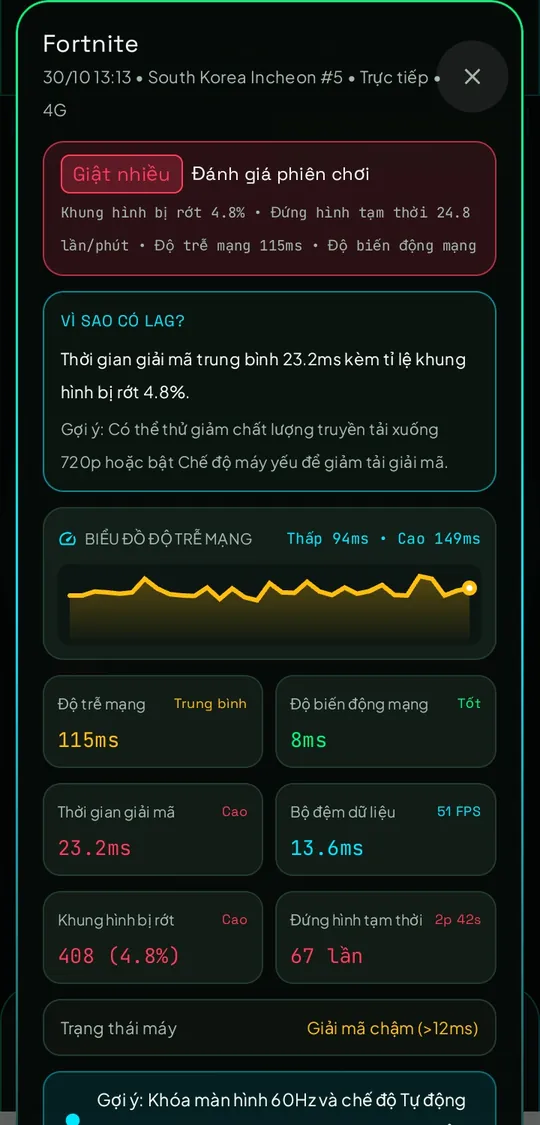
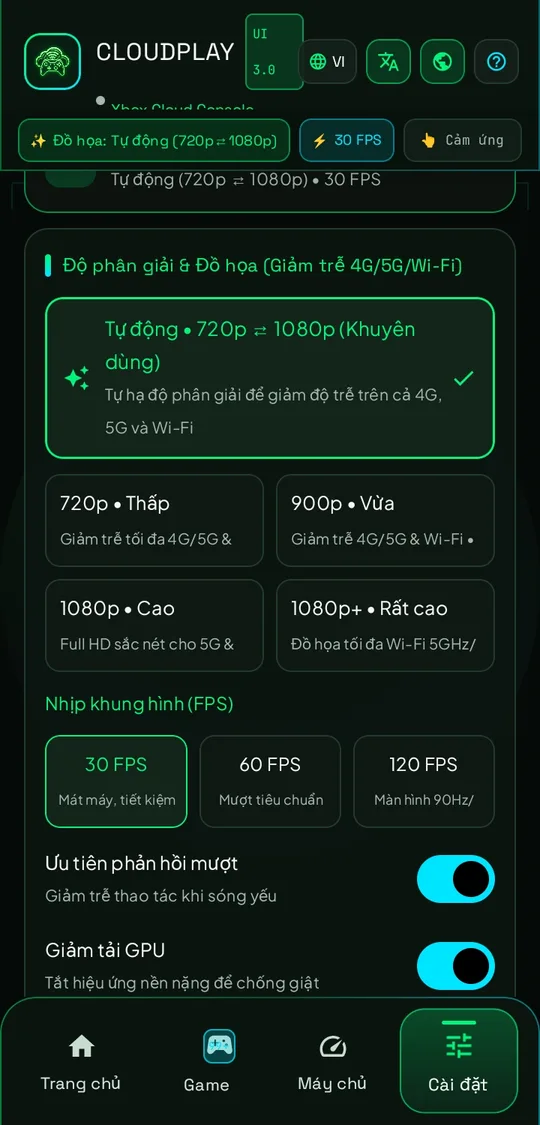
docs: update screenshot label to "Cài đặt đồ họa"
Rename the third screenshot label from "Chi tiết phiên chơi" to "Cài đặt đồ họa" in both the app and documentation to accurately reflect the content of the image.

diff --git a/app/src/main/assets/web/index.html b/app/src/main/assets/web/index.html
@@ -169,7 +169,7 @@
     <div class="shots" id="shots">
       <figure class="shot"><img src="img/screenshot-1.webp" alt="" width="540" height="1125" loading="lazy" onerror="shotErr(this)"><figcaption data-i="c1">Trang chủ</figcaption></figure>
       <figure class="shot"><img src="img/screenshot-2.webp" alt="" width="540" height="1125" loading="lazy" onerror="shotErr(this)"><figcaption data-i="c2">Thư viện game</figcaption></figure>
-      <figure class="shot"><img src="img/screenshot-3.webp" alt="" width="540" height="1125" loading="lazy" onerror="shotErr(this)"><figcaption data-i="c3">Chi tiết phiên chơi</figcaption></figure>
+      <figure class="shot"><img src="img/screenshot-3.webp" alt="" width="540" height="1125" loading="lazy" onerror="shotErr(this)"><figcaption data-i="c3">Cài đặt đồ họa</figcaption></figure>
     </div>
     <div class="dots" id="dots"><i class="on"></i><i></i><i></i></div>
   </section>
@@ -254,7 +254,7 @@
       hint:"Mạng chậm? Dùng máy chủ phụ (bên thứ ba). Nếu dùng, hãy đối chiếu mã SHA-256 bên dưới trước khi cài.",
       hashna:"Chưa lấy được mã kiểm tra",copy:"Sao chép",copied:"Đã chép",
       f1:"Phiên bản",f2:"Dung lượng",free:"Miễn phí",f4:"Giá",
-      h_shots:"Ảnh chụp",c1:"Trang chủ",c2:"Thư viện game",c3:"Chi tiết phiên chơi",
+      h_shots:"Ảnh chụp",c1:"Trang chủ",c2:"Thư viện game",c3:"Cài đặt đồ họa",
       h_feat:"Tính năng",
       t1:"Số đo thật khi chơi",d1:"Độ trễ mạng, độ biến động, FPS và thời gian giải mã hiện ngay trên màn hình. Chưa có số đo thì hiện “—”, không điền số giả.",
       t2:"Vì sao có lag?",d2:"Sau mỗi phiên, app dùng số liệu đã lưu để gợi ý nguyên nhân (mạng, giải mã hay mất khung hình) và cách thử khắc phục.",
@@ -271,14 +271,14 @@
       q5:"Cập nhật như thế nào?",a5:"Ứng dụng báo khi có bản mới và kiểm tra file trước khi cài.",
       n_t:"Lưu ý",n_b:"Ứng dụng độc lập, không liên kết với Microsoft, Xbox hay Epic Games. Có thể vi phạm điều khoản dịch vụ và dẫn đến khóa tài khoản; người dùng tự chịu rủi ro.",
       foot:"CloudPlay cho Android",rel:"Các bản phát hành",src:"Mã nguồn",
-      alts:["Màn hình trang chủ","Thư viện game","Chi tiết phiên chơi và chẩn đoán lag"]},
+      alts:["Màn hình trang chủ","Thư viện game","Cài đặt đồ họa và FPS"]},
     en:{by:"App for Android",
       tagline:"A helper for playing Xbox Cloud Gaming on Android: shows real measurements while you play, adjusts image quality and suggests the cause of lag.",
       dl:"Download APK",fast:"Download via mirror",
       hint:"Slow network? Use the mirror (third party). If you do, compare the SHA-256 below before installing.",
       hashna:"Checksum not available",copy:"Copy",copied:"Copied",
       f1:"Version",f2:"Size",free:"Free",f4:"Price",
-      h_shots:"Screenshots",c1:"Home",c2:"Game library",c3:"Session details",
+      h_shots:"Screenshots",c1:"Home",c2:"Game library",c3:"Graphics settings",
       h_feat:"Features",
       t1:"Real measurements while you play",d1:"Network latency, jitter, FPS and decode time are shown on screen. When there is no measurement yet it shows “—”, never a made-up number.",
       t2:"Why is it lagging?",d2:"After each session the app uses the saved data to suggest the cause (network, decoding or dropped frames) and what to try.",
@@ -295,7 +295,7 @@
       q5:"How do updates work?",a5:"The app tells you when a new version is out and verifies the file before installing.",
       n_t:"Note",n_b:"Independent app, not affiliated with Microsoft, Xbox or Epic Games. It may violate terms of service and could lead to account suspension; use at your own risk.",
       foot:"CloudPlay for Android",rel:"Releases",src:"Source code",
-      alts:["Home screen","Game library","Session details and lag diagnosis"]}
+      alts:["Home screen","Game library","Graphics and FPS settings"]}
   };
   var lang="en";
   try{var sv=localStorage.getItem("cp_lang");if(sv==="vi"||sv==="en")lang=sv;else lang=guess();}catch(e){lang=guess();}

diff --git a/docs/index.html b/docs/index.html
@@ -169,7 +169,7 @@
     <div class="shots" id="shots">
       <figure class="shot"><img src="img/screenshot-1.webp" alt="" width="540" height="1125" loading="lazy" onerror="shotErr(this)"><figcaption data-i="c1">Trang chủ</figcaption></figure>
       <figure class="shot"><img src="img/screenshot-2.webp" alt="" width="540" height="1125" loading="lazy" onerror="shotErr(this)"><figcaption data-i="c2">Thư viện game</figcaption></figure>
-      <figure class="shot"><img src="img/screenshot-3.webp" alt="" width="540" height="1125" loading="lazy" onerror="shotErr(this)"><figcaption data-i="c3">Chi tiết phiên chơi</figcaption></figure>
+      <figure class="shot"><img src="img/screenshot-3.webp" alt="" width="540" height="1125" loading="lazy" onerror="shotErr(this)"><figcaption data-i="c3">Cài đặt đồ họa</figcaption></figure>
     </div>
     <div class="dots" id="dots"><i class="on"></i><i></i><i></i></div>
   </section>
@@ -254,7 +254,7 @@
       hint:"Mạng chậm? Dùng máy chủ phụ (bên thứ ba). Nếu dùng, hãy đối chiếu mã SHA-256 bên dưới trước khi cài.",
       hashna:"Chưa lấy được mã kiểm tra",copy:"Sao chép",copied:"Đã chép",
       f1:"Phiên bản",f2:"Dung lượng",free:"Miễn phí",f4:"Giá",
-      h_shots:"Ảnh chụp",c1:"Trang chủ",c2:"Thư viện game",c3:"Chi tiết phiên chơi",
+      h_shots:"Ảnh chụp",c1:"Trang chủ",c2:"Thư viện game",c3:"Cài đặt đồ họa",
       h_feat:"Tính năng",
       t1:"Số đo thật khi chơi",d1:"Độ trễ mạng, độ biến động, FPS và thời gian giải mã hiện ngay trên màn hình. Chưa có số đo thì hiện “—”, không điền số giả.",
       t2:"Vì sao có lag?",d2:"Sau mỗi phiên, app dùng số liệu đã lưu để gợi ý nguyên nhân (mạng, giải mã hay mất khung hình) và cách thử khắc phục.",
@@ -271,14 +271,14 @@
       q5:"Cập nhật như thế nào?",a5:"Ứng dụng báo khi có bản mới và kiểm tra file trước khi cài.",
       n_t:"Lưu ý",n_b:"Ứng dụng độc lập, không liên kết với Microsoft, Xbox hay Epic Games. Có thể vi phạm điều khoản dịch vụ và dẫn đến khóa tài khoản; người dùng tự chịu rủi ro.",
       foot:"CloudPlay cho Android",rel:"Các bản phát hành",src:"Mã nguồn",
-      alts:["Màn hình trang chủ","Thư viện game","Chi tiết phiên chơi và chẩn đoán lag"]},
+      alts:["Màn hình trang chủ","Thư viện game","Cài đặt đồ họa và FPS"]},
     en:{by:"App for Android",
       tagline:"A helper for playing Xbox Cloud Gaming on Android: shows real measurements while you play, adjusts image quality and suggests the cause of lag.",
       dl:"Download APK",fast:"Download via mirror",
       hint:"Slow network? Use the mirror (third party). If you do, compare the SHA-256 below before installing.",
       hashna:"Checksum not available",copy:"Copy",copied:"Copied",
       f1:"Version",f2:"Size",free:"Free",f4:"Price",
-      h_shots:"Screenshots",c1:"Home",c2:"Game library",c3:"Session details",
+      h_shots:"Screenshots",c1:"Home",c2:"Game library",c3:"Graphics settings",
       h_feat:"Features",
       t1:"Real measurements while you play",d1:"Network latency, jitter, FPS and decode time are shown on screen. When there is no measurement yet it shows “—”, never a made-up number.",
       t2:"Why is it lagging?",d2:"After each session the app uses the saved data to suggest the cause (network, decoding or dropped frames) and what to try.",
@@ -295,7 +295,7 @@
       q5:"How do updates work?",a5:"The app tells you when a new version is out and verifies the file before installing.",
       n_t:"Note",n_b:"Independent app, not affiliated with Microsoft, Xbox or Epic Games. It may violate terms of service and could lead to account suspension; use at your own risk.",
       foot:"CloudPlay for Android",rel:"Releases",src:"Source code",
-      alts:["Home screen","Game library","Session details and lag diagnosis"]}
+      alts:["Home screen","Game library","Graphics and FPS settings"]}
   };
   var lang="en";
   try{var sv=localStorage.getItem("cp_lang");if(sv==="vi"||sv==="en")lang=sv;else lang=guess();}catch(e){lang=guess();}
